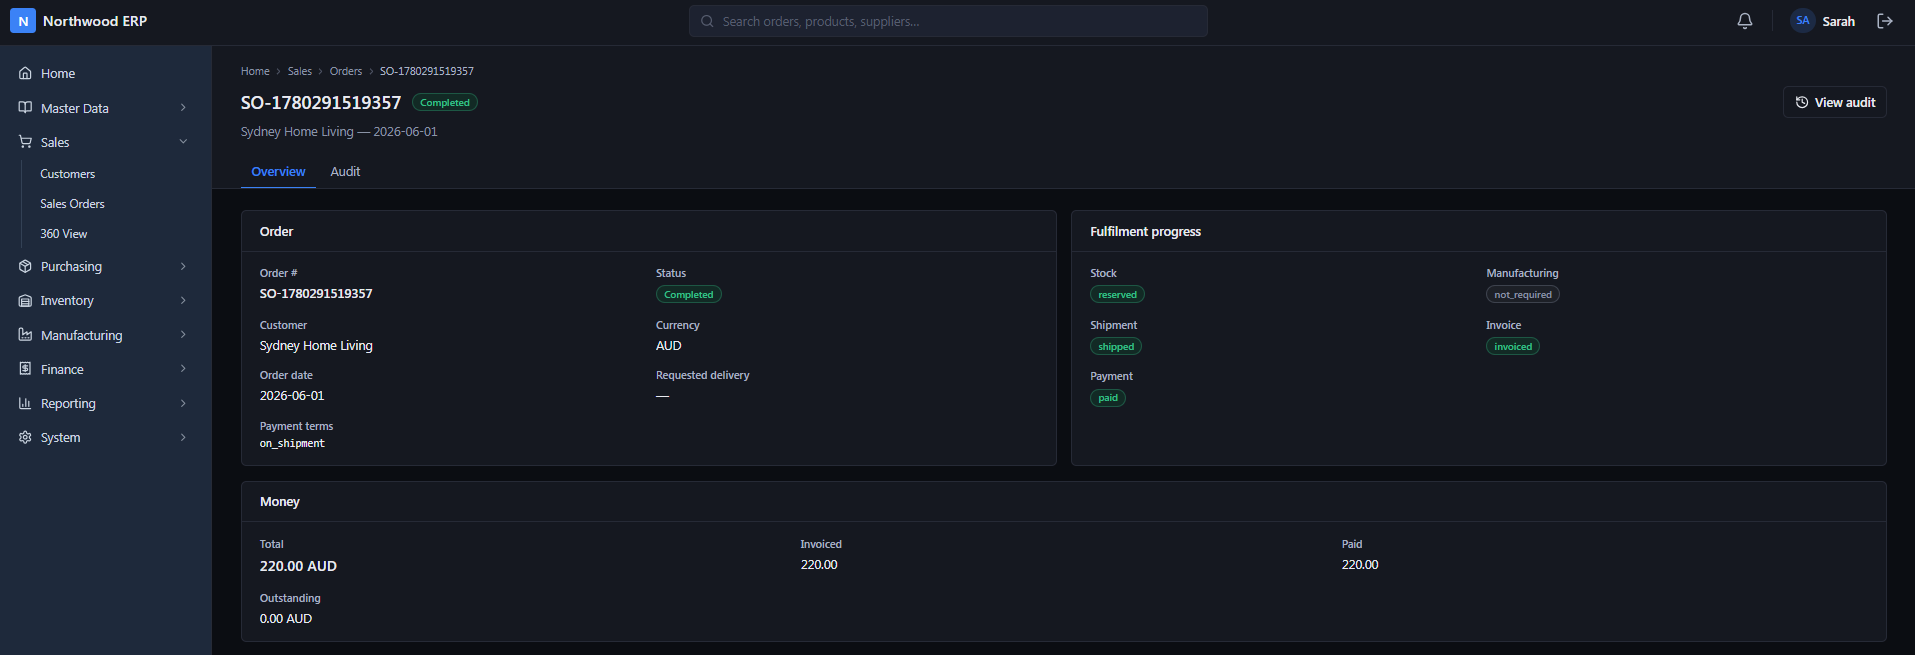
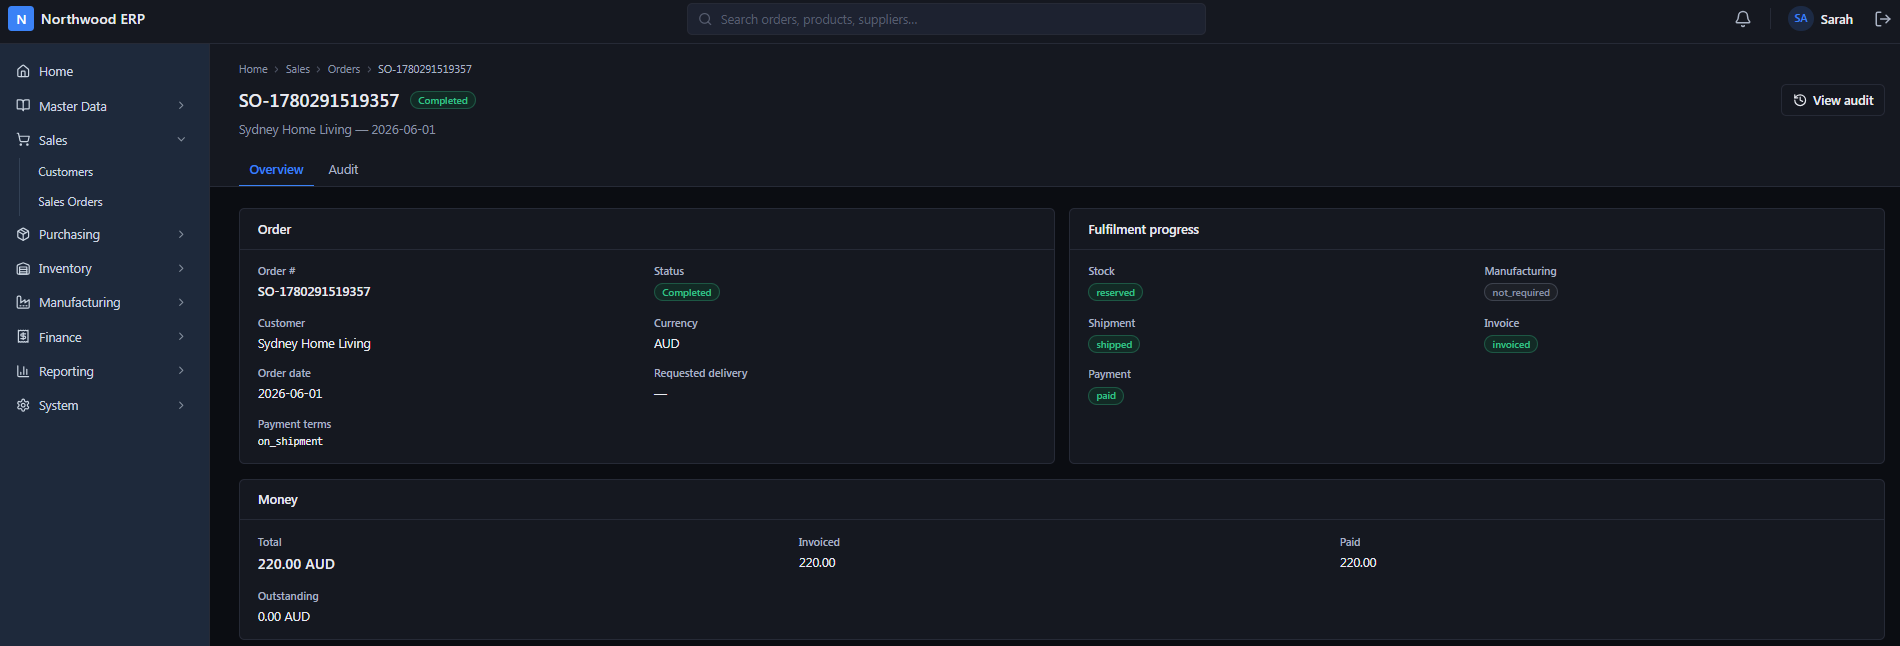
feat(erp-web-ui): remove the Sales Order 360 View page
The 360 View dashboard duplicated the Sales Orders list (same /api/sales-orders
endpoint, differing only in visible saga-status columns). Drop the page entirely:
the SalesOrderDetail page already surfaces the same cross-context roll-up per
order via the 360 projection, so the standalone list was redundant.

- Deleted routes/sales/SalesOrder360Dashboard.tsx + its App.tsx route and import.
- Removed the "360 View" sidebar entry.
- Refreshed docs/screenshots/sales-order.png.

The backend sales_order_360_view projection is unchanged — SalesOrderDetail still
reads /api/sales-orders/{id}/360 for its fulfilment roll-up.

diff --git a/erp-web-ui/src/App.tsx b/erp-web-ui/src/App.tsx
@@ -4,7 +4,6 @@ import { Home } from "./routes/Home";
 import { SalesOrders } from "./routes/sales/SalesOrders";
 import { SalesOrderNew } from "./routes/sales/SalesOrderNew";
 import { SalesOrderDetail } from "./routes/sales/SalesOrderDetail";
-import { SalesOrder360Dashboard } from "./routes/sales/SalesOrder360Dashboard";
 import { Customers } from "./routes/sales/Customers";
 import { CustomerDetail } from "./routes/sales/CustomerDetail";
 import { CustomerNew } from "./routes/sales/CustomerNew";
@@ -66,7 +65,6 @@ export function App() {
         {/* ---- Sales ---- */}
         <Route path="/sales-orders"      element={<SalesOrders />} />
         <Route path="/sales-orders/new"  element={<SalesOrderNew />} />
-        <Route path="/sales-orders/360"  element={<SalesOrder360Dashboard />} />
         <Route path="/sales-orders/:id"  element={<SalesOrderDetail />} />
         <Route path="/customers"         element={<Customers />} />
         <Route path="/customers/new"     element={<CustomerNew />} />

diff --git a/erp-web-ui/src/components/layout/Sidebar.tsx b/erp-web-ui/src/components/layout/Sidebar.tsx
@@ -49,7 +49,6 @@ const MODULES: NavModule[] = [
     items: [
       { label: "Customers", to: "/customers" },
       { label: "Sales Orders", to: "/sales-orders" },
-      { label: "360 View", to: "/sales-orders/360" },
     ],
   },
   {